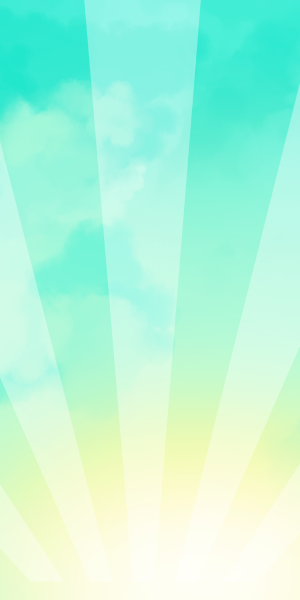
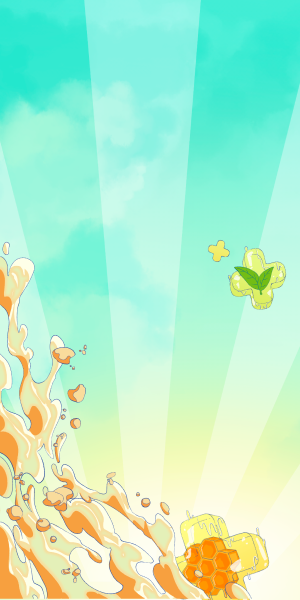
grid template

Changed region(s): [[0.0, 0.39, 0.9, 1.0], [0.69, 0.39, 0.96, 0.54]]

diff --git a/index.html b/index.html
@@ -8,12 +8,12 @@
       href="https://fonts.googleapis.com/css2?family=Roboto:ital,wght@0,400;0,700;1,400;1,700&display=swap"
       rel="stylesheet"
     />
-    <link rel="stylesheet" href="/css/style.css" />
+    <link rel="stylesheet" href="css/style.css" />
     <title>Banner</title>
   </head>
   <body>
     <div class="container">
-      <!-- <div class="first_banner">
+      <div class="first_banner">
         <h1 class="title">try different flavours</h1>
         <h2 class="subtitle">you have <span>3 attempts</span></h2>
         <div class="imgs">
@@ -24,11 +24,11 @@
           <input type="image" class="btn" src="/imgs/orange_open.png" alt="" />
           <input type="image" class="btn" src="/imgs/tea_open.png" alt="" />
         </div>
-      </div> -->
-      <div class="second_banner">
+      </div>
+      <!-- <div class="second_banner">
         <div class="title">Try refreshing <span>ready-to-drink tea</span></div>
         <button class="buy_btn">BUY</button>
-      </div>
+      </div> -->
     </div>
   </body>
 </html>

diff --git a/css/style.css b/css/style.css
@@ -5,12 +5,15 @@
 }
 
 .container {
-  /* background-image: url(../imgs/Match_04.png); */
   background-size: cover;
   width: 300px;
   height: 600px;
   font-family: "Roboto";
-  /* padding: 51px 28px 0; */
+}
+
+.first_banner {
+  background-image: url(../imgs/Match_04.png);
+  padding: 51px 28px 27px;
 }
 
 .title {
@@ -40,9 +43,10 @@
 
 .imgs {
   display: grid;
-  grid-template-columns: 1fr 1fr;
-  grid-column-gap: 14px;
-  grid-row-gap: 15px;
+  grid-template-columns: 126.5px 126.5px;
+  grid-template-rows: 130px 130px 130px;
+  grid-column-gap: 0;
+  grid-row-gap: 0;
 }
 
 .btn {
@@ -59,6 +63,7 @@
   width: 300px;
   height: 600px;
   padding: 50px 0;
+  text-align: center;
 }
 
 .title span {
@@ -74,4 +79,6 @@
   padding: 5px 50px;
   color: #fff;
   background-color: #ff1e27;
+  border: none;
+  cursor: pointer;
 }
